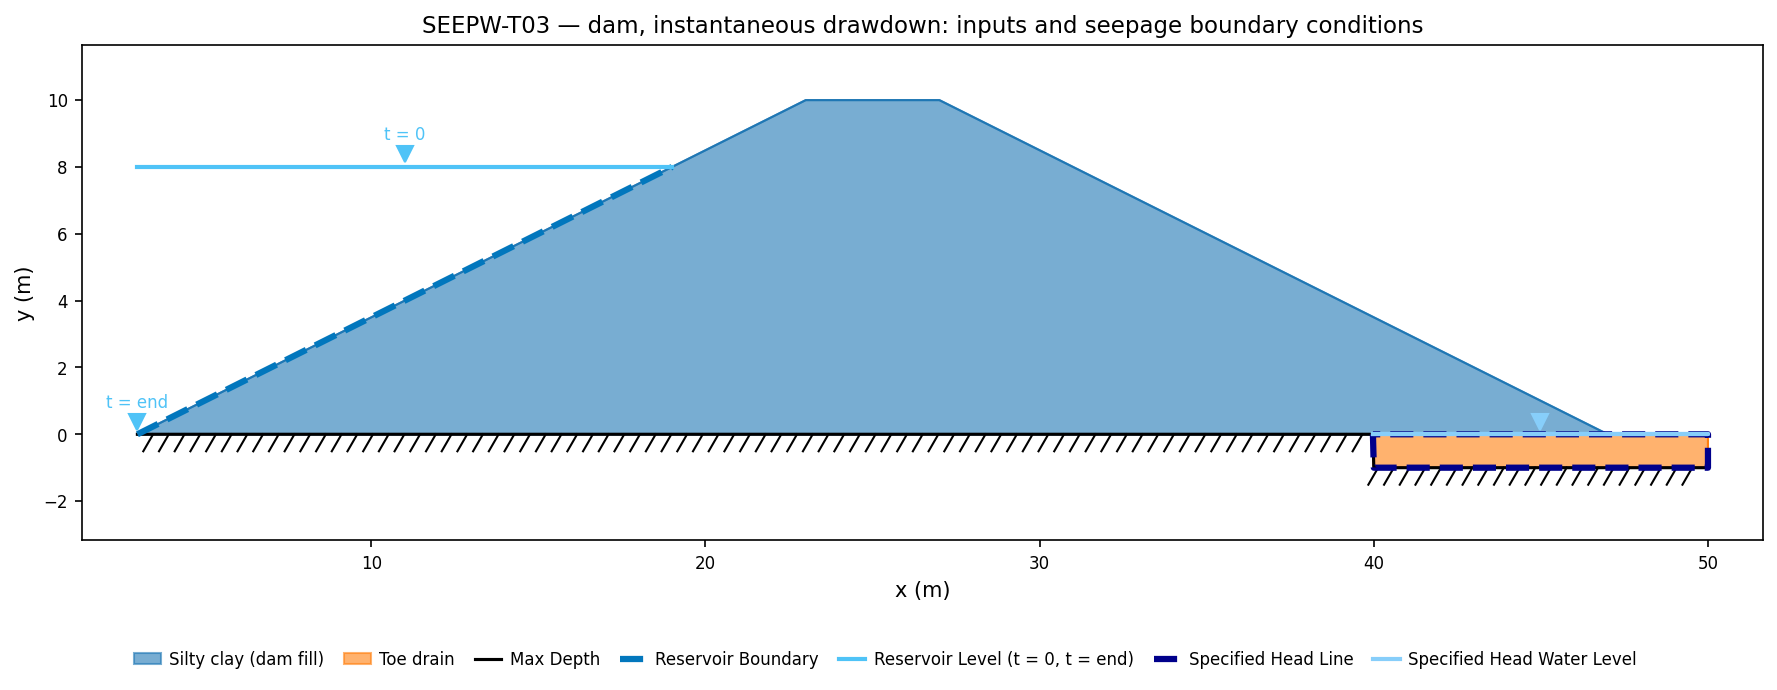
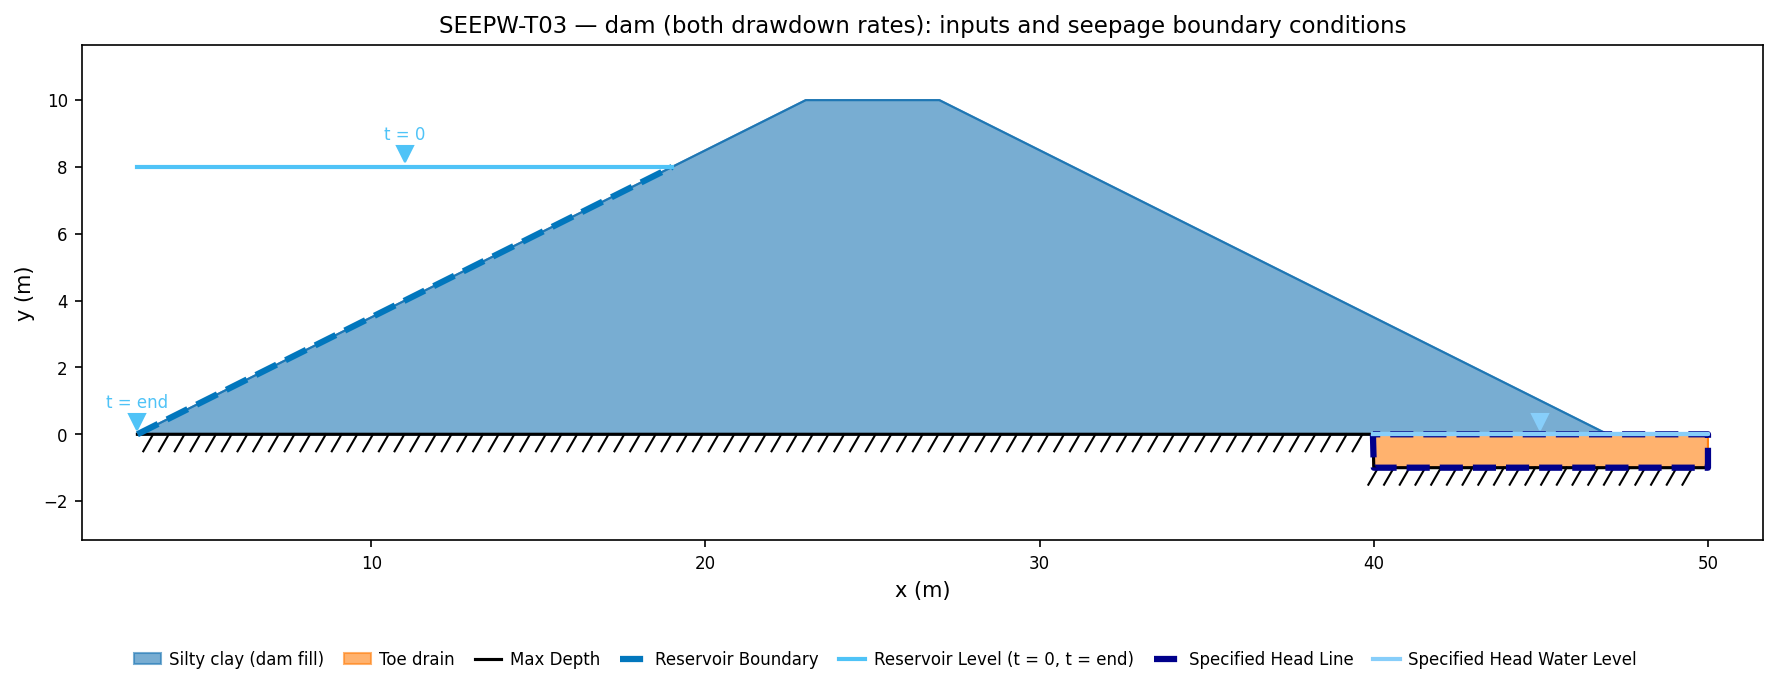
verification(geostudio): one inputs figure for T03, the section the two drawdown rates share
Claude-Session: https://claude.ai/code/session_01XjjT2aBxw8gY7EFdpoUcpj

Changed region(s): [[0.2476, 0.0, 0.8047, 0.0609]]

diff --git a/benchmarks/geostudio/make_gs2_transient_figures.py b/benchmarks/geostudio/make_gs2_transient_figures.py
@@ -379,8 +379,7 @@ def fig_pond():
 
 _INPUT_STEMS = (('gs2_cons', 'SEEPW-T01 — consolidation column'),
                 ('gs2_infil', 'SEEPW-T02 — infiltration column'),
-                ('gs2_rdd_inst', 'SEEPW-T03 — dam, instantaneous drawdown'),
-                ('gs2_rdd_slow', 'SEEPW-T03 — dam, slow drawdown'),
+                ('gs2_rdd_inst', 'SEEPW-T03 — dam (both drawdown rates)'),
                 ('gs2_pond', 'SEEPW-T04 — clay-lined pond'),
                 ('gs2_heap', 'SEEPW-T05 — leach column'),
                 ('gs2_mso', 'SEEPW-T07 — multistep outflow column'))

diff --git a/tools/verification_checks/pages/geostudio.py b/tools/verification_checks/pages/geostudio.py
@@ -125,7 +125,6 @@ CONFIG = PageConfig(
         "images/gs2_cons_inputs.png",
         "images/gs2_infil_inputs.png",
         "images/gs2_rdd_inst_inputs.png",
-        "images/gs2_rdd_slow_inputs.png",
         "images/gs2_pond_inputs.png",
         "images/gs2_heap_inputs.png",
         "images/gs2_mso_inputs.png",

diff --git a/docs/verification/geostudio.md b/docs/verification/geostudio.md
@@ -1110,9 +1110,7 @@ at 8 m.
 **Input:** [gs2_rdd_inst.xlsx](files/geostudio/gs2_rdd_inst.xlsx) (instantaneous),
 [gs2_rdd_slow.xlsx](files/geostudio/gs2_rdd_slow.xlsx) (slow)
 
-![SEEPW-T03: the dam with its seepage boundary conditions for instantaneous drawdown](images/gs2_rdd_inst_inputs.png){width=800px}
-
-![SEEPW-T03: the dam with its seepage boundary conditions for slow drawdown](images/gs2_rdd_slow_inputs.png){width=800px}
+![SEEPW-T03: the dam with its seepage boundary conditions, the same section for both drawdown rates](images/gs2_rdd_inst_inputs.png){width=800px}
 
 ![SEEPW-T03: interior total head vs time, XSLOPE vs SEEP/W](images/gs2_rdd.png)
 
